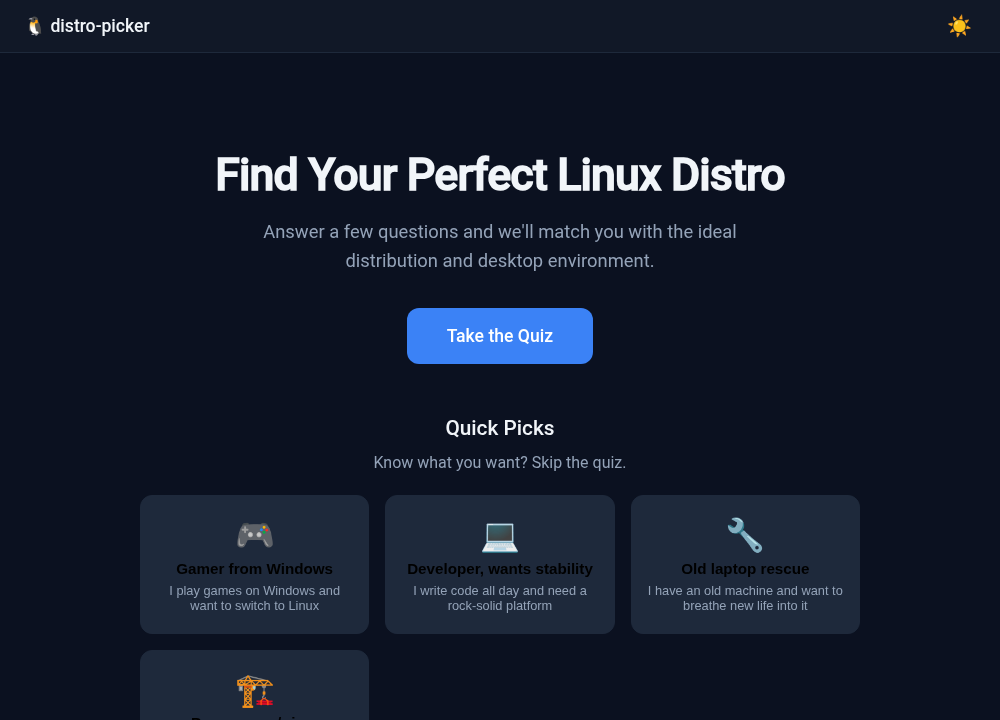
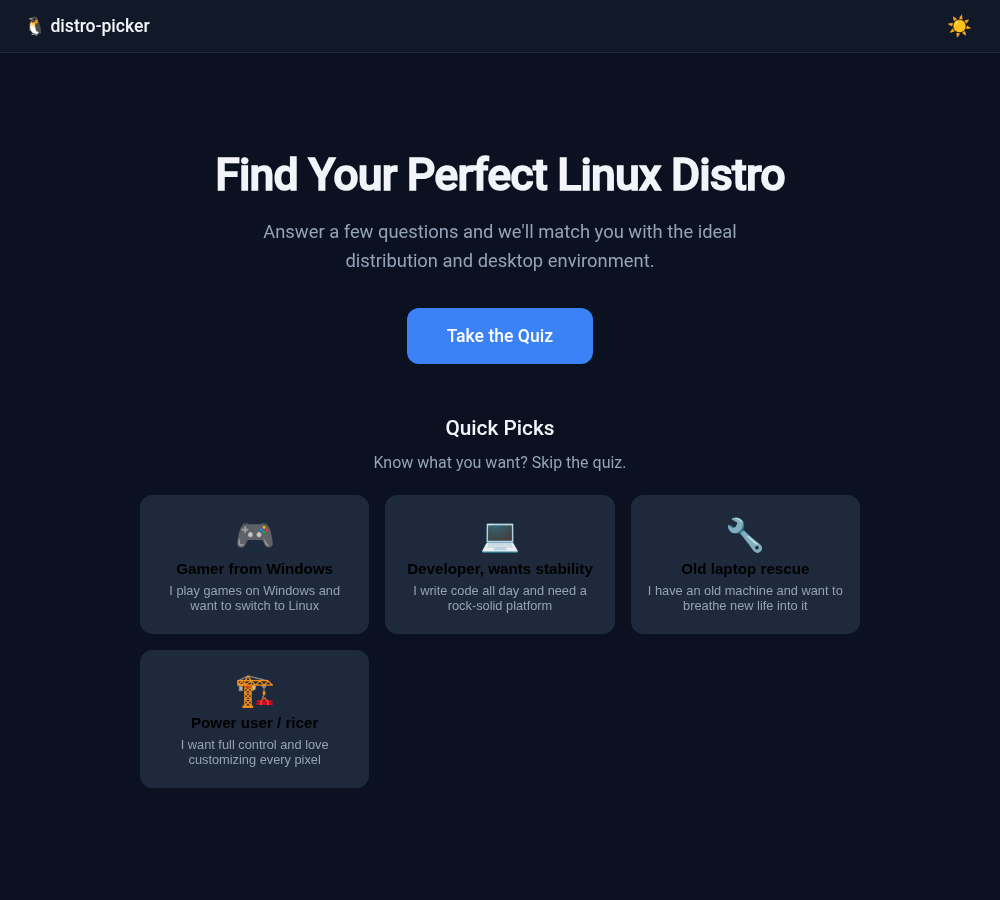
auto-shutdown on browser close, fix landing screenshot
Server now exits ~10s after the browser tab is closed via heartbeat.
Frontend pings /api/heartbeat every 3s to keep it alive.

diff --git a/web/js/app.js b/web/js/app.js
@@ -108,6 +108,9 @@ class App {
   }
 }
 
+// Keep the server alive while the tab is open; it auto-exits when we leave.
+setInterval(() => fetch('/api/heartbeat', { method: 'POST' }).catch(() => {}), 3000);
+
 const app = new App();
 app.init().catch((err) => {
   document.getElementById('app').innerHTML = `

diff --git a/internal/server/handler.go b/internal/server/handler.go
@@ -5,18 +5,42 @@ import (
 	"io/fs"
 	"log"
 	"net/http"
+	"sync"
+	"time"
 
 	"distropicker/internal/engine"
 )
 
+// Heartbeat tracks the last time the browser checked in.
+var heartbeat struct {
+	mu   sync.Mutex
+	last time.Time
+}
+
+func touchHeartbeat() {
+	heartbeat.mu.Lock()
+	heartbeat.last = time.Now()
+	heartbeat.mu.Unlock()
+}
+
+// LastHeartbeat returns when the browser last pinged.
+func LastHeartbeat() time.Time {
+	heartbeat.mu.Lock()
+	defer heartbeat.mu.Unlock()
+	return heartbeat.last
+}
+
 // New creates an http.Handler wired to the recommendation engine
 // and serving embedded static assets.
 func New(assets fs.FS) http.Handler {
+	touchHeartbeat() // initialize so the watchdog doesn't fire immediately
+
 	mux := http.NewServeMux()
 
 	mux.HandleFunc("GET /api/questions", handleQuestions)
 	mux.HandleFunc("GET /api/profiles", handleProfiles)
 	mux.HandleFunc("POST /api/recommend", handleRecommend)
+	mux.HandleFunc("POST /api/heartbeat", handleHeartbeat)
 
 	webFS, err := fs.Sub(assets, "web")
 	if err != nil {
@@ -46,6 +70,11 @@ func handleRecommend(w http.ResponseWriter, r *http.Request) {
 		return
 	}
 	writeJSON(w, engine.Recommend(req))
+}
+
+func handleHeartbeat(w http.ResponseWriter, _ *http.Request) {
+	touchHeartbeat()
+	w.WriteHeader(http.StatusNoContent)
 }
 
 func writeJSON(w http.ResponseWriter, v any) {

diff --git a/cmd/picker/main.go b/cmd/picker/main.go
@@ -38,7 +38,6 @@ func main() {
 	}()
 
 	if !*noBrowser {
-		// Small delay so the server is ready before the browser hits it.
 		time.AfterFunc(200*time.Millisecond, func() {
 			openBrowser(fmt.Sprintf("http://localhost:%d", *port))
 		})
@@ -46,6 +45,20 @@ func main() {
 
 	quit := make(chan os.Signal, 1)
 	signal.Notify(quit, syscall.SIGINT, syscall.SIGTERM)
+
+	// Auto-shutdown: exit when the browser tab is closed (no heartbeat for 10s).
+	go func() {
+		ticker := time.NewTicker(3 * time.Second)
+		defer ticker.Stop()
+		for range ticker.C {
+			if time.Since(server.LastHeartbeat()) > 10*time.Second {
+				log.Println("no browser connected, shutting down")
+				quit <- syscall.SIGTERM
+				return
+			}
+		}
+	}()
+
 	<-quit
 
 	log.Println("shutting down…")
